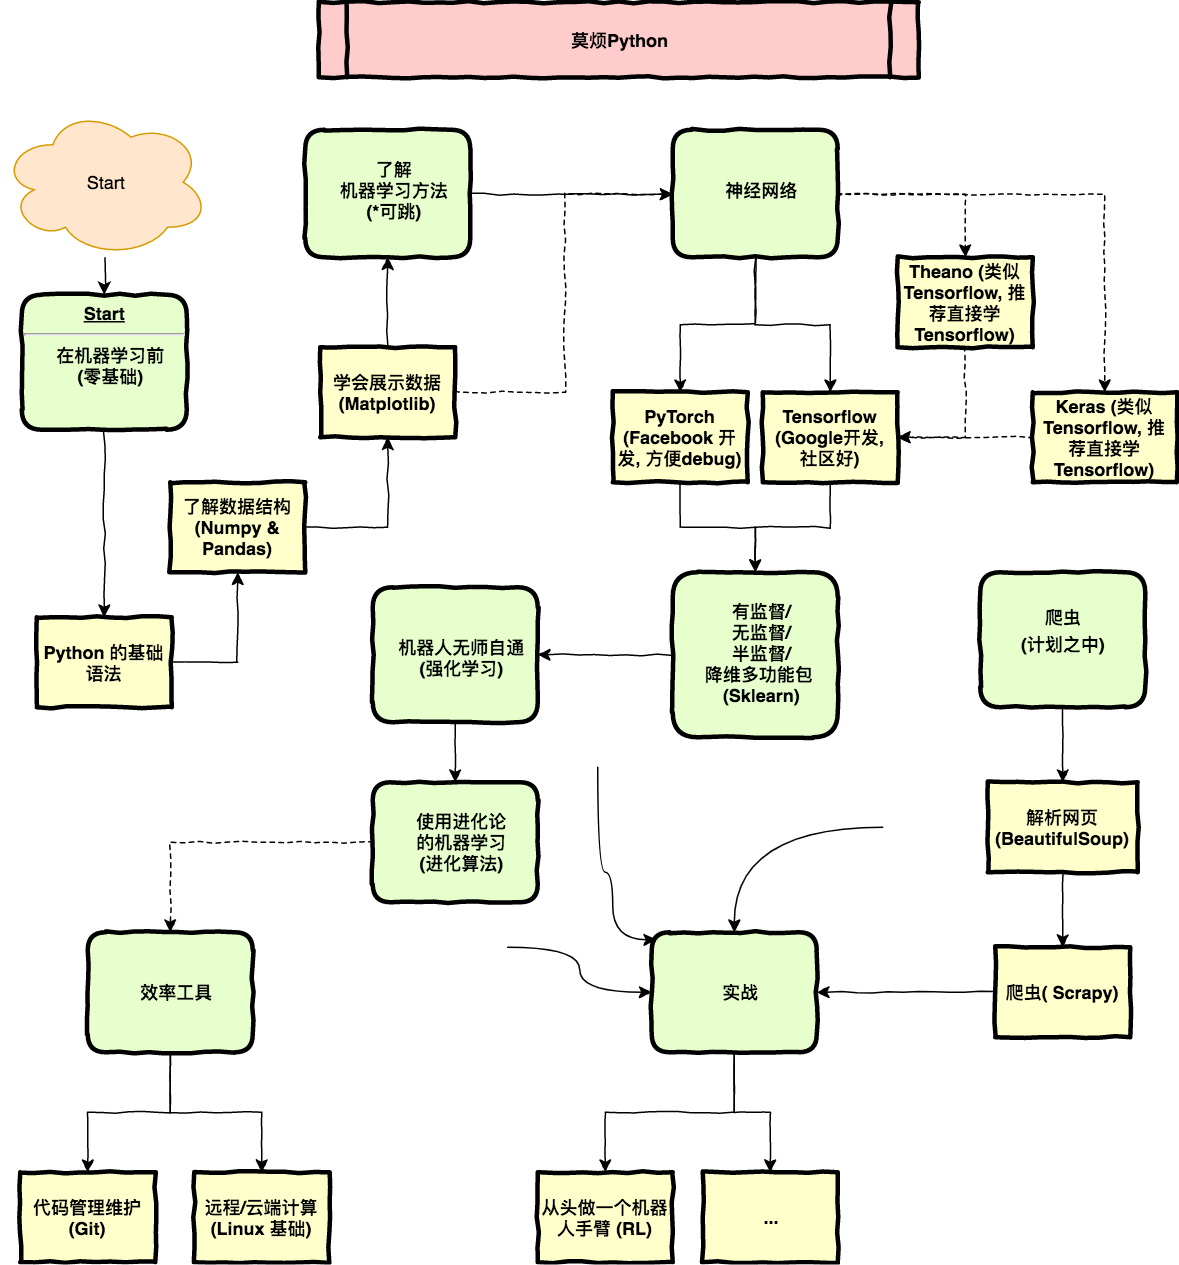
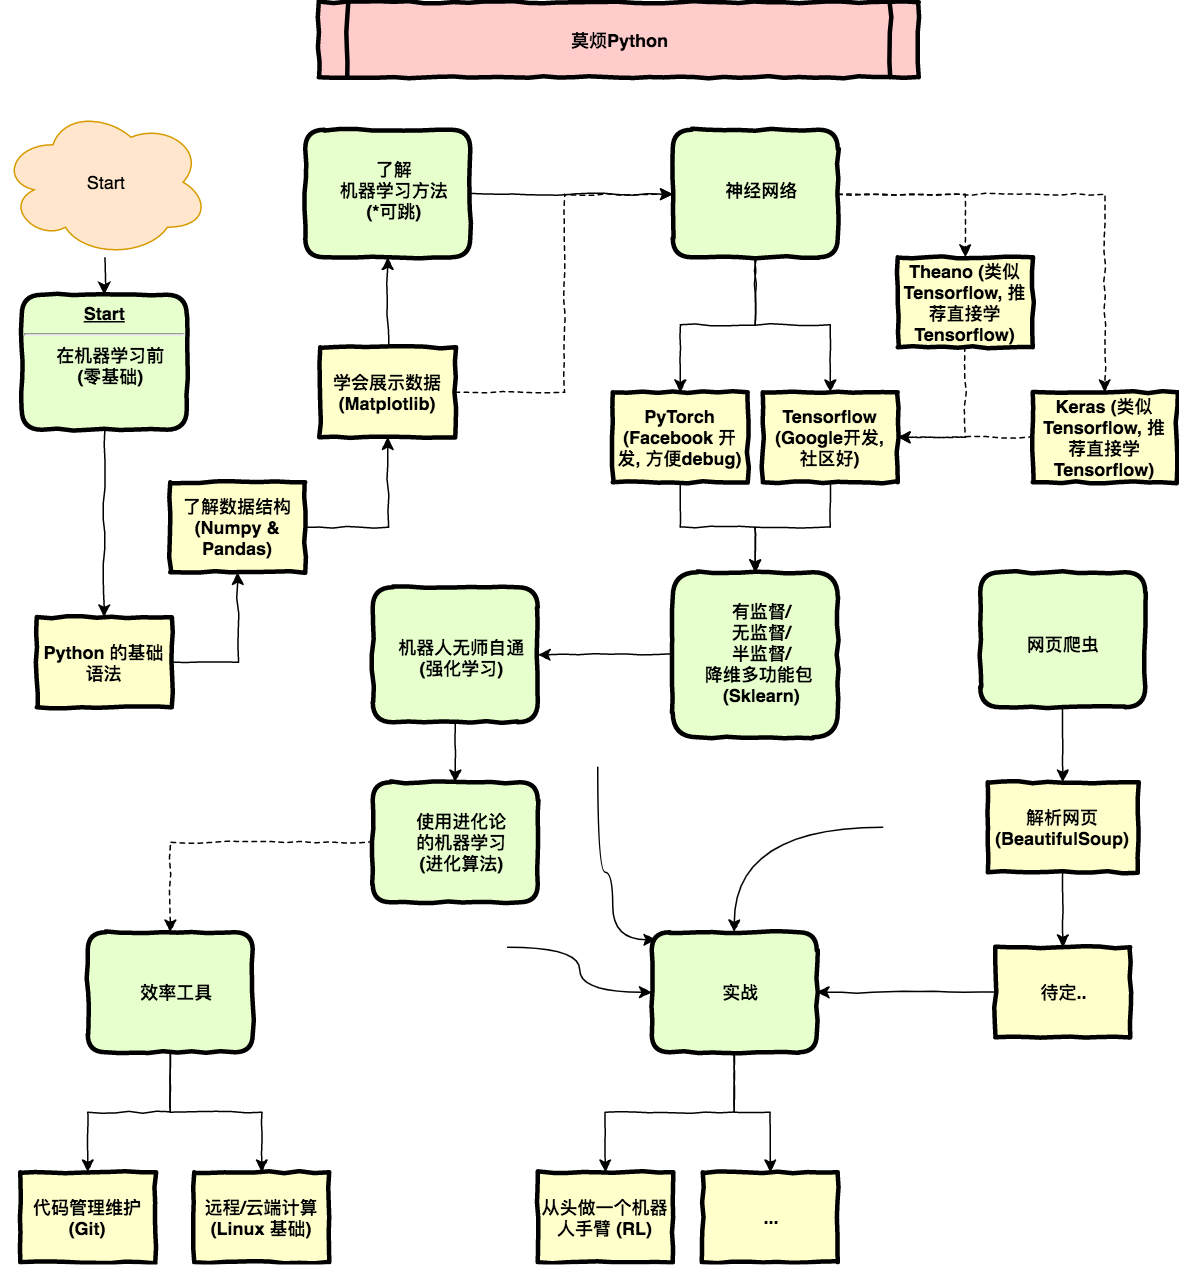
add file

diff --git a/_modules-intro/data-manipulation.html b/_modules-intro/data-manipulation.html
@@ -4,7 +4,8 @@ permalink: tutorials/:path/
 module: data-manipulation
 description: "这里汇集了在 Python 中最重要的数据处理,
 科学计算模块: Numpy 和 Pandas. 而且还有数据可视化的利器:
-Matplotlib. 使用它们能够更有效的处理你的数据, 呈现你的数据~"
+Matplotlib. 使用它们能够更有效的处理你的数据, 呈现你的数据~
+用网页爬虫来获取网页上最有价值的数据."
 ---
 
 <h1 style="display: none; padding:0; margin:0;">{{page.title}}</h1>

diff --git a/_table-contents/data-manipulation/scraping.html b/_table-contents/data-manipulation/scraping.html
@@ -1,0 +1,8 @@
+---
+title: "网页爬虫教程系列"
+category: scraping
+tut-course-cover: /static/img/course_cover/scraping.jpg
+description: "网页上有着海量的信息, 而我们可以用 Python 来定点锁定这些信息. 想象有时候, 你需要在一个网页上, 下载它每一页的图片,
+如果你想要手动下载, 祝福你长命百岁. 网页爬虫的教程就是让你学会怎么样用 Python 来获取网页上你需要的信息.
+让机器来帮你实现这些繁琐的事情."
+---

diff --git a/_layouts/with-nav.html b/_layouts/with-nav.html
@@ -68,6 +68,10 @@ nav-items:
         link: "plt/"
         has-cont: no
         icon-path: "plt_icon.png"
+      - name: "网页爬虫"
+        link: "scraping/"
+        has-cont: no
+        icon-path: "scraping_icon.ico"
   - top-name: "提效工具 ▾"
     tut-path: "others/"
     icon-path: "others_icon.png"

diff --git a/_tutorials/data-manipulation/scraping/1-01-understand-website.md b/_tutorials/data-manipulation/scraping/1-01-understand-website.md
@@ -1,0 +1,169 @@
+---
+enable_ads: false
+published: true
+youku_id:
+youtube_id:
+bilibili_id:
+title: 了解网页结构
+description: "学习爬虫, 首先要懂的是网页. 支撑起各种光鲜亮丽的网页的不是别的, 全都是一些代码.
+这种代码我们称之为 HTML, HTML 是一种浏览器(Chrome, Safari, IE, Firefox等)看得懂的语言, 浏览器能将这种语言转换成我们用肉眼看到的网页.
+所以 HTML 里面必定存在着很多规律, 我们的爬虫就能按照这样的规律来爬取你需要的信息."
+publish-date:
+thumbnail: "/static/thumbnail-small/data-manipulation/"
+chapter: 1
+post-headings:
+  - 网络基本组成部分
+  - 用 Python 登录网页
+  - 匹配网页内容
+---
+
+学习资料:
+  * [本节学习代码](#){:target="_blank"}
+  * 本节使用的爬虫[测试网页](/static/scraping/basic-structure.html)
+
+
+学习爬虫, 首先要懂的是网页. 支撑起各种光鲜亮丽的网页的不是别的, 全都是一些代码.
+这种代码我们称之为 [HTML](https://baike.baidu.com/item/HTML/97049?fr=aladdin){:target="_blank"},
+HTML 是一种浏览器(Chrome, Safari, IE, Firefox等)看得懂的语言, 浏览器能将这种语言转换成我们用肉眼看到的网页.
+所以 HTML 里面必定存在着很多规律, 我们的爬虫就能按照这样的规律来爬取你需要的信息.
+
+其实除了 HTML, 一同构建多彩/多功能网页的组件还有 [CSS](https://baike.baidu.com/item/CSS/5457){:target="_blank"} 和
+[JavaScript](https://baike.baidu.com/item/javascript){:target="_blank"}. 但是这个简单的爬虫教程, 大部分时间会将 HTML,
+CSS 和 JavaScript 会在后期简单介绍一下. 因为爬网页的时候多多少少还是要和 CSS JavaScript 打交道的.
+
+[莫烦Python](/)主打的还是机器学习的教程. 机器学习中的大量数据, 也是可以从这些网页中来, 使用爬虫来爬取各种网页上面的信息, 然后再放入各种机器学习的方法,
+这样的应用途径正在越来越多被采用. 所以如果你的数据也是分散在各个网页中, 爬虫是你减少人力劳动的必修课.
+
+
+
+
+{% include assign-heading.html %}
+
+在真正进入爬虫之前, 我们先来做一下热身运动, 弄明白网页的基础, HTML 有哪些组成部分,
+是怎么样运作的. 如果你已经非常熟悉网页的构造了, 欢迎直接跳过这一节, 进入下面的学习.
+
+我制作了一个[非常简易的网页](/static/scraping/basic-structure.html), 给大家呈现以下最骨感的 HTML 结构.
+如果你点开它, 呈现在你眼前的, 就是下面这张图的上半部分. 而下半部分就是我们网页背后的 HTML code.
+
+
+{% include tut-image.html image-name="1-1-1.png" %}
+
+想问我是如何看到 HTML 的 source code 的? 其实很简单, 在你的浏览器中, 显示网页的地方, 点击鼠标右键,
+大多数浏览器都会有类似这样一个选项 "View Page Source". 点击它就能看到页面的源码了.
+
+{% include tut-image.html image-name="1-1-2.png" %}
+
+在 HTML 中, 基本上所有的实体内容, 都会有个 tag 来框住它. 而这个被 tag 住的内容, 就可以被展示成不同的形式, 或有不同的功能.
+主体的 tag 分成两部分, `header` 和 `body`. 在 `header` 中, 存放这一些网页的网页的元信息, 比如说 `title`, 这些信息是不会被显示到你看到的网页中的.
+这些信息大多数时候是给浏览器看, 或者是给搜索引擎的爬虫看.
+
+```html
+<head>
+	<meta charset="UTF-8">
+	<title>Scraping tutorial 1 | 莫烦Python</title>
+	<link rel="icon" href="https://morvanzhou.github.io/static/img/description/tab_icon.png">
+</head>
+```
+
+
+{% include google-in-article-ads.html %}
+
+
+HTML 的第二大块是 `body`, 这个部分才是你看到的网页信息. 网页中的 `heading`, 视频, 图片和文字等都存放在这里.
+这里的 `<h1></h1>` tag 就是主标题, 我们看到呈现出来的效果就是大一号的文字. `<p></p>` 里面的文字就是一个段落.
+`<a></a>`里面都是一些链接. 所以很多情况, 东西都是放在这些 tag 中的.
+
+```html
+<body>
+    <h1>爬虫测试1</h1>
+    <p>
+        这是一个在 <a href="https://morvanzhou.github.io/">莫烦Python</a>
+        <a href="https://morvanzhou.github.io/tutorials/scraping">爬虫教程</a> 中的简单测试.
+    </p>
+</body>
+```
+
+爬虫想要做的就是根据这些 tag 来找到合适的信息.
+
+
+
+
+
+
+
+
+{% include assign-heading.html %}
+
+好了, 对网页结构和 HTML 有了一些基本认识以后, 我们就能用 Python 来爬取这个[网页](/static/scraping/basic-structure.html)的一些基本信息.
+首先要做的, 是使用 Python 来登录这个网页, 并打印出这个网页 HTML 的 source code.
+注意, 因为网页中存在中文, 为了正常显示中文, `read()` 完以后, 我们要对读出来的文字进行转换, `decode()` 成可以正常显示中文的形式.
+
+```python
+from urllib.request import urlopen
+
+# if has Chinese, apply decode()
+html = urlopen("https://morvanzhou.github.io/static/scraping/basic-structure.html").read().decode('utf-8')
+print(html)
+```
+
+print 出来就是下面这样啦. 这就证明了我们能够成功读取这个网页的所有信息了. 但我们还没有对网页的信息进行汇总和利用.
+我们发现, 想要提取一些形式的信息, 合理的利用 tag 的名字十分重要.
+
+```html
+<!DOCTYPE html>
+<html lang="cn">
+<head>
+	<meta charset="UTF-8">
+	<title>Scraping tutorial 1 | 莫烦Python</title>
+	<link rel="icon" href="https://morvanzhou.github.io/static/img/description/tab_icon.png">
+</head>
+<body>
+	<h1>爬虫测试1</h1>
+	<p>
+		这是一个在 <a href="https://morvanzhou.github.io/">莫烦Python</a>
+		<a href="https://morvanzhou.github.io/tutorials/scraping">爬虫教程</a> 中的简单测试.
+	</p>
+
+</body>
+</html>
+```
+
+
+
+{% include assign-heading.html %}
+
+
+所以这里我们使用 Python 的正则表达式 RegEx 进行匹配文字, 赛选信息的工作. 我有一个很不错的[正则表达式的教程]({% link _tutorials/python-basic/basic/13-10-regular-expression.md %}),
+如果是初级的网页匹配, 我们使用正则完全就可以了, 高级一点或者比较繁琐的匹配, 我还是推荐使用 [BeautifulSoup](https://www.crummy.com/software/BeautifulSoup/bs4/doc/){:target="_blank"}.
+不急不急, 我知道你想偷懒, 我之后马上就会教 beautiful soup 了. 但是现在我们还是使用正则来做两个简单的例子, 让你熟悉一下套路.
+
+如果我们想用代码找到这个网页的 title, 我们就能这样写. 选好要使用的 tag 名称 `<title>`. 使用正则匹配.
+
+```python
+import re
+res = re.findall(r"<title>(.+?)</title>", html)
+print("\nPage title is: ", res[0])
+# Page title is:  Scraping tutorial 1 | 莫烦Python
+```
+
+如果想要找到中间的那个段落 `<p>`, 我们使用下面方法, 因为这个段落在 HTML 中还夹杂着 tab, new line, 所以我们给一个
+flags=re.DOTALL 来对这些 tab, new line 不敏感.
+
+```python
+res = re.findall(r"<p>(.*?)</p>", html, flags=re.DOTALL)    # re.DOTALL if multi line
+print("\nPage paragraph is: ", res[0])
+# Page paragraph is:
+#     这是一个在 <a href="https://morvanzhou.github.io/">莫烦Python</a>
+#     <a href="https://morvanzhou.github.io/tutorials/scraping">爬虫教程</a> 中的简单测试.
+```
+
+最后一个练习是找一找所有的链接, 这个比较有用, 有时候你想找到网页里的链接, 然后下载一些内容到电脑里, 就靠这样的途径了.
+
+```python
+res = re.findall(r'href="(.*?)"', html)
+print("\nAll links: ", res)
+# All links:  ['https://morvanzhou.github.io/static/img/description/tab_icon.png', 'https://morvanzhou.github.io/', 'https://morvanzhou.github.io/tutorials/scraping']
+```
+
+
+下次我们就来看看为了图方面, 我们如何使用 BeautifulSoup.

diff --git a/_loop-description/home/3-data_manipulation.md b/_loop-description/home/3-data_manipulation.md
@@ -8,6 +8,7 @@ Matplotlib. 使用它们能够更有效的处理你的数据, 呈现你的数据
 tut-course-detail:
   - ["/tutorials/data-manipulation/np-pd", "Numpy & Pandas 数据处理", "/static/img/course_cover-small/np_pd.jpg"]
   - ["/tutorials/data-manipulation/plt", "Matplotlib 画图", "/static/img/course_cover-small/plt.jpg"]
+  - ["/tutorials/data-manipulation/scraping", "网页爬虫", "/static/img/course_cover-small/scraping.jpg"]
 ---
 
 
@@ -15,5 +16,6 @@ tut-course-detail:
 这里汇集了在 Python 中最重要的数据处理,
 科学计算模块: Numpy 和 Pandas. 而且还有数据可视化的利器:
 Matplotlib. 使用它们能够更有效的处理你的数据, 呈现你的数据~
+用网页爬虫来获取网页上最有价值的数据.
 
 

diff --git a/_loop-description/data-manipulation/3-scraping.md b/_loop-description/data-manipulation/3-scraping.md
@@ -1,0 +1,9 @@
+---
+title: 爬虫
+icon-dir: /static/img/icon/scraping_icon.ico
+tut-dir: /tutorials/data-manipulation/scraping/
+---
+
+网页上有着海量的信息, 而我们可以用 Python 来定点锁定这些信息. 想象有时候, 你需要在一个网页上, 下载它每一页的图片,
+如果你想要手动下载, 祝福你长命百岁. <a href="{{page.tut-dir}}">网页爬虫的教程</a> 就是让你学会怎么样用 Python 来获取网页上你需要的信息.
+让机器来帮你实现这些繁琐的事情.
